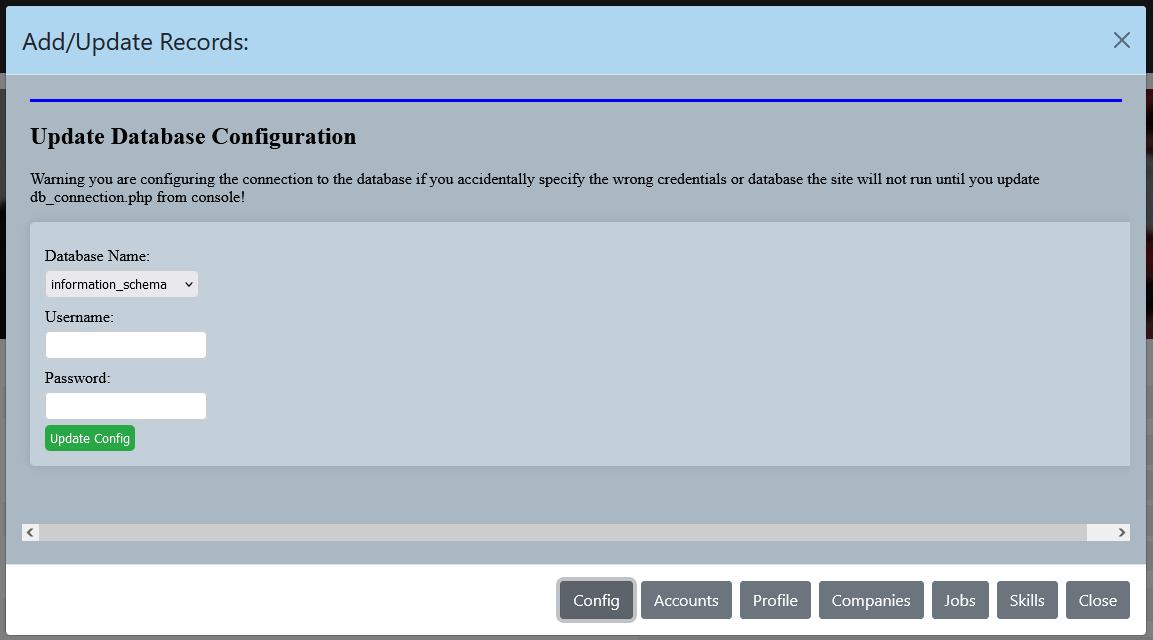
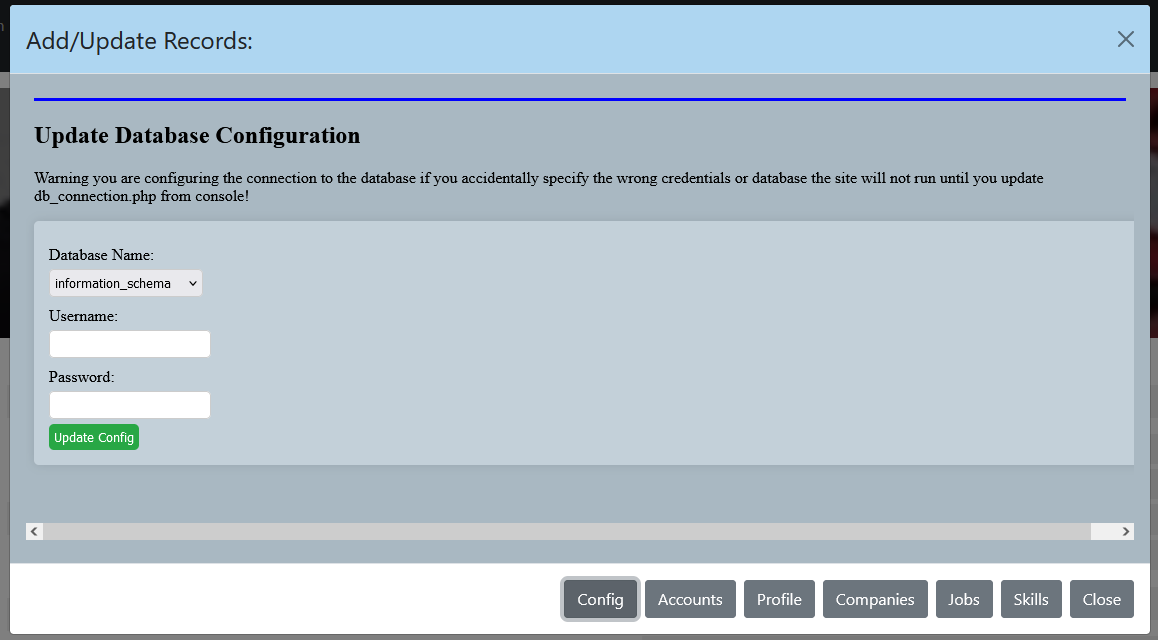
fixed bad image refs

diff --git a/README.md b/README.md
@@ -35,7 +35,7 @@ The main interface to add all resume details is the Admin modal, which has butto
 The configuration for connecting to the database can be updated here, including selecting the target database from a drop-down of existing databases, as well as the username and password that connects to the host. The host configuration has been excluded from this configuration screen
 
 ## Config tab in Admin Modal
-![Config Database in Modal](images/Config-admin-modal.png) 
+![Config Database in Modal](images/example-config-admin-modal.png) 
 
 
 ### 2. **Accounts** 
@@ -43,7 +43,7 @@ The configuration for connecting to the database can be updated here, including 
 This includes User name , Password, and Access Level.
 
 ## Accounts tab in Admin Modal
-![Accounts in Modal](images/accounts-admin-portal.png)
+![Accounts in Modal](images/example-accounts-admin-modal.png)
 
 ### 3. **Profile**
 **Update Profile Information** 
@@ -57,7 +57,7 @@ The initial base.php page and the top menu both get information from the profile
 This includes the Company name, the Company logo and an html formatted description of the Company itself
 
 ## Companies Tab in Admin Modal
-![Authenticated view ](images/example-company-modal.png)
+![Authenticated view ](images/example-admin-companies-modal.png)
 
 ### 5. **Job History information** 
 **Add/Update jobs.** 
